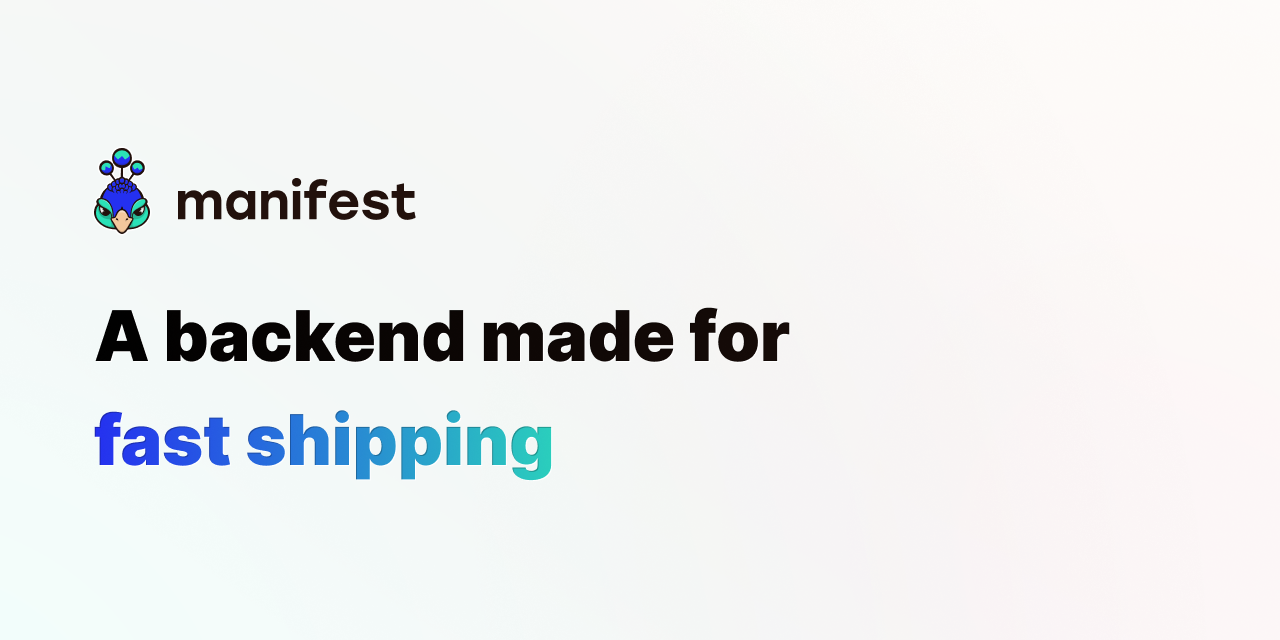
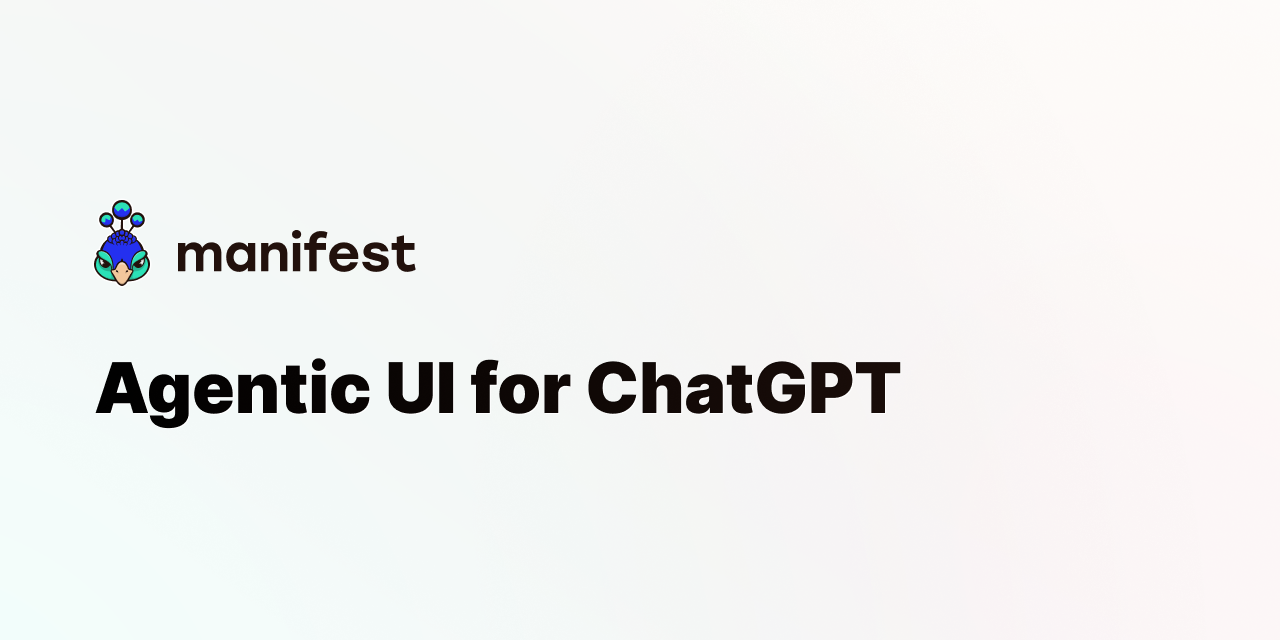
feat: replace meta and og-image to fit with agentic ui approach

Changed region(s): [[0.0625, 0.4688, 0.7188, 0.75], [0.0625, 0.2188, 0.3438, 0.4375]]

diff --git a/client/src/app/modules/website/pages/faq/faq.component.ts b/client/src/app/modules/website/pages/faq/faq.component.ts
@@ -13,54 +13,58 @@ export class FaqComponent {
 
   faqItems: { question: string; answer: string[] }[] = [
     {
-      question: 'Is Manifest a low-code / no-code tool ?',
+      question: 'What is an Agentic UI?',
       answer: [
-        "No. It just works like just any other file in your codebase. It's code, simple code."
+        'An Agentic UI is a branded, interactive interface that appears inside AI assistants like ChatGPT or Claude when they perform actions on behalf of users.',
+        'Instead of generic text responses, your customers see your product with your design, your UX, and your conversion flow — directly in the conversation.'
       ]
     },
     {
-      question: 'How is Manifest different from other BaaS?',
+      question: 'Why do I need an Agentic UI?',
       answer: [
-        'Most BaaS platforms are no-code tools working with a dashboard to manage your backend. Manifest gives you a single file you can generate, edit and version like any other part of your codebase.',
-        'You stay in your editor. You do not have to deal with bloated UI, setup steps or custom platform rules.',
-        'Manifest is open source, easy to validate, and designed to fit naturally into AI-assisted workflows. It provides full control, minimal complexity, and no lock-in.'
+        'Consumer behavior is shifting. People increasingly ask AI assistants to book, compare, and buy for them instead of opening apps or searching Google.',
+        "If your brand isn't present in these conversations, you become invisible, just another generic recommendation. You also lose all data on customer intent, conversion, and churn."
+      ]
+    },
+    {
+      question: 'Which AI assistants does Manifest support?',
+      answer: [
+        'Manifest is cross-platform compatible, so your Agentic UI works wherever your customers interact with AI.'
+      ]
+    },
+    {
+      question: 'What kind of analytics do I get?',
+      answer: [
+        'Manifest provides conversion analytics specific to AI conversations: impressions, click-through, checkout completion, and drop-off points.',
+        'You get the same visibility you expect from your app or website.'
+      ]
+    },
+    {
+      question: 'How is Manifest different from building in-house?',
+      answer: [
+        'Building in-house requires hiring MCP specialists, months of development, and ongoing maintenance as protocols evolve.',
+        'Manifest gets you live in weeks with analytics included — so your engineering team stays focused on your core product.'
+      ]
+    },
+    {
+      question:
+        'How is Manifest different from the Agentic Commerce Protocol (ACP)?',
+      answer: [
+        "ACP is a protocol, a standard you implement yourself. Manifest is a platform. We handle the complexity of MCP, external apps, and cross-platform rendering so you don't have to.",
+        'ACP is also commerce-focused. Manifest works for other areas as healthtech, fintech and so on.'
       ]
     },
     {
       question: 'Is Manifest for me?',
       answer: [
-        'It does not matter if you are junior or senior developer, if you code in JS, PHP or Python. You can be frontend, backend or fullstack, a mobile developer, indie hacker or devsigner. If you know a bit of software development, you will have no problem using Manifest.'
+        'Manifest is built for tech-forward companies with high transaction volume and strong brand identity.',
+        'If your customers interact with you frequently and your brand matters, Manifest is for you.'
       ]
     },
     {
-      question: 'Can I use Manifest with AI tools like Cursor or Copilot?',
+      question: 'How do I get started?',
       answer: [
-        'Yes. Manifest is designed for AI-assisted workflows. Its syntax and structure are easy for LLMs to generate and edit, which makes it perfect for vibe coding or AI-generated projects.'
-      ]
-    },
-    {
-      question: 'Can I use Manifest without any AI tool?',
-      answer: [
-        'Absolutely. You can write and maintain your backend manually like any other code file. Manifest works without AI tools, but it fits perfectly into AI-assisted workflows.'
-      ]
-    },
-    {
-      question: 'Can I self-host Manifest?',
-      answer: [
-        'Yes. You can run Manifest locally or deploy it wherever you want. There is no dependency on any hosted service.'
-      ]
-    },
-    {
-      question: 'Can I use Manifest in production?',
-      answer: [
-        'Manifest is currently in BETA, you can use it at your own risk. It is stable enough to power small projects, prototypes and MVPs but we do not recommend to use it on critical platforms.'
-      ]
-    },
-    {
-      question: 'What is behind the magic?',
-      answer: [
-        'Manifest is based on a small set of clear and composable concepts. It removes repetitive code, avoids complexity, and includes the core features every backend needs by default.',
-        'Under the hood, it uses popular technologies that developers already trust. The current version runs on Node.js, Express, and NestJS. We use JSON Schema to validate the YAML file, js-yaml to parse it, and TypeORM to map it into a SQLite database.'
+        "We're onboarding pilot partners now. Reach out and we'll help you to build your first Agentic UI, from API to live in AI assistants."
       ]
     }
   ]

diff --git a/client/src/app/app.routes.ts b/client/src/app/app.routes.ts
@@ -17,11 +17,11 @@ export const routes: Routes = [
     component: HomeComponent,
     data: {
       seo: {
-        title: 'Manifest - 1-File Backend for Developers that Ship Fast',
+        title: 'Manifest - Agentic UI for ChatGPT and Claude',
         description:
-          'Manifest is an Open Source Portable Backend that fits into a Single YAML file. It includes key features like Auth, Storage, CRUD, Endpoints...',
+          'Build branded Agentic UIs that render natively inside ChatGPT and Claude. Ship once, reach every AI assistant. Track what converts. Own the customer relationship.',
         keywords:
-          'backend, micro-backend, AI-powered editor, backend for LLMs, AI coding tools backend, backend for vibe coding, backend for modern workflows, manifest, admin panel, rest api, auth, storage',
+          'Agentic UI, mcm-ui, AI-powered, MCP UI, AI aissitant, UI for AI assistant, UI for ChatGPT, manifest, UI for Claude, UI for Gemini, brand, chatgpt integration, claude integration, gemini integration, ai channel, ai customer relationship, ai marketing, ai engagement',
         canonicalUrl: environment.baseUrl,
         og: {
           image: `${environment.baseUrl}/assets/images/og-image.png`,
@@ -93,7 +93,7 @@ export const routes: Routes = [
         title: 'Integrations - Manifest',
         description:
           'Manifest integrates with many of your favorite third-party services.',
-        keywords: 'integrations, manifest, backend enhancements',
+        keywords: 'integrations, manifest, third-party services',
         canonicalUrl: `${environment.baseUrl}/integrations`,
         og: {
           image: `${environment.baseUrl}/assets/images/og-image.png`,
@@ -128,7 +128,7 @@ export const routes: Routes = [
       seo: {
         title: 'Sponsors - Manifest',
         description:
-          'Become a sponsor of Manifest and help us build the future of backend development.',
+          'Become a sponsor of Manifest and help us build the best Agentic UI tool for AI assistants.',
         keywords: 'sponsors, manifest, support open source',
         canonicalUrl: `${environment.baseUrl}/sponsors`,
         og: {
@@ -146,7 +146,7 @@ export const routes: Routes = [
       seo: {
         title: 'FAQ - Manifest',
         description:
-          'Frequently asked questions about Manifest (FAQ). Manifest is a backend made for AI-powered coding with auth, storage, logic and all the essentials.',
+          'Frequently asked questions about Manifest (FAQ). Manifest helps brands appear inside ChatGPT and Claude with their own UI.',
         keywords: 'faq, frequently asked questions, manifest',
         canonicalUrl: `${environment.baseUrl}/faq`,
         og: {

diff --git a/docs/docusaurus.config.ts b/docs/docusaurus.config.ts
@@ -70,7 +70,7 @@ const config: Config = {
     announcementBar: {
       id: 'poc-banner',
       content:
-        '📢 Manifest is evolving. We\'re launching a new product focused on MCP server generation for AI agents. Current docs remain available, and we\'ll share migration info soon. <a href="https://manifest.build" target="_blank">Learn more</a>',
+        '📢 Manifest is evolving. We\'re launching a new product focused on Agentic UI for AI assistants. Current docs remain available, and we\'ll share migration info soon. <a href="https://manifest.build" target="_blank">Learn more</a>',
       backgroundColor: '#942FFA',
       textColor: '#fff',
       isCloseable: false
